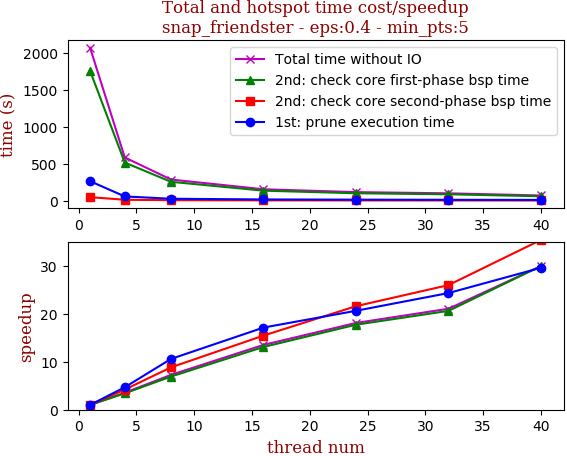
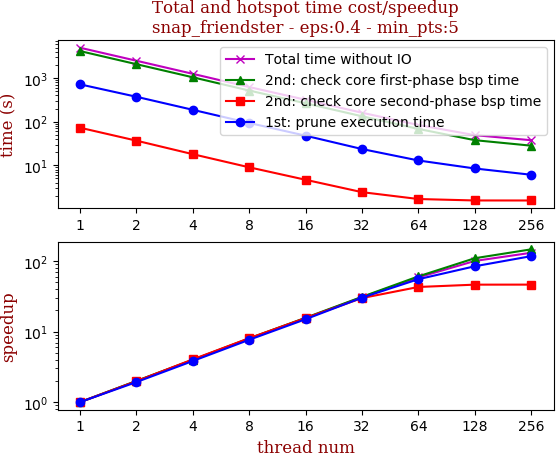
update friendster exp

diff --git a/python_experiments/scalability_differ_eps_knl.py b/python_experiments/scalability_differ_eps_knl.py
@@ -37,8 +37,8 @@ if __name__ == '__main__':
     os.system('mkdir -p ./figures/' + figure_folder)
     os.system('mkdir -p ' + markdown_folder)
     min_pts = 5
-    # eps_lst = [float(i + 1) / 10 for i in xrange(9)]
-    eps_lst = [0.1]
+    eps_lst = [float(i + 1) / 10 for i in xrange(9)]
+    # eps_lst = [0.1, 0.2, 0.3]
 
     for data_set in data_set_lst:
         with open(markdown_folder + os.sep + data_set + '.md', 'w') as ifs:

diff --git a/python_experiments/case_studies/figures-case-study14-scalability-knl/snap_friendster.md b/python_experiments/case_studies/figures-case-study14-scalability-knl/snap_friendster.md
@@ -16,3 +16,147 @@ thread_num | prune | check-core 1st bsp | check-core 2nd bsp | cluster-core | cl
 128 | 8.827s | 42.469s | 11.494s | 8.847s | 10.82s | 82.469s | 91.040
 256 | 6.755s | 32.983s | 9.231s | 6.685s | 13.341s | 69.006s | 108.801
 
+## eps:0.2
+
+overview | speedup
+--- | ---
+![snap_friendster-overview](../../figures/scalability_simd_paper/snap_friendster-eps:0.2-min_pts:5-overview.png) | ![snap_friendster-runtime-speedup](../../figures/scalability_simd_paper/snap_friendster-eps:0.2-min_pts:5-runtime-speedup.png)
+
+thread_num | prune | check-core 1st bsp | check-core 2nd bsp | cluster-core | cluster-non-core | total | total speedup
+--- | --- | --- | --- | --- | --- | --- | ---
+1 | 759.385s | 6308.925s | 414.088s | 123.25s | 203.527s | 7809.179s | 1.000
+2 | 397.049s | 3154.587s | 206.981s | 64.43s | 107.247s | 3930.3s | 1.987
+4 | 199.469s | 1580.95s | 103.738s | 33.024s | 55.101s | 1972.287s | 3.959
+8 | 99.847s | 789.311s | 51.661s | 16.952s | 29.473s | 987.249s | 7.910
+16 | 50.115s | 396.879s | 25.821s | 8.739s | 18.407s | 499.966s | 15.619
+32 | 25.705s | 203.231s | 13.541s | 5.077s | 11.467s | 259.026s | 30.148
+64 | 13.631s | 102.372s | 7.04s | 3.669s | 6.915s | 133.633s | 58.438
+128 | 8.878s | 56.663s | 4.247s | 2.677s | 4.901s | 77.371s | 100.932
+256 | 6.696s | 43.754s | 3.163s | 2.837s | 4.304s | 60.758s | 128.529
+
+## eps:0.3
+
+overview | speedup
+--- | ---
+![snap_friendster-overview](../../figures/scalability_simd_paper/snap_friendster-eps:0.3-min_pts:5-overview.png) | ![snap_friendster-runtime-speedup](../../figures/scalability_simd_paper/snap_friendster-eps:0.3-min_pts:5-runtime-speedup.png)
+
+thread_num | prune | check-core 1st bsp | check-core 2nd bsp | cluster-core | cluster-non-core | total | total speedup
+--- | --- | --- | --- | --- | --- | --- | ---
+1 | 744.535s | 5429.591s | 101.873s | 17.765s | 53.064s | 6346.832s | 1.000
+2 | 386.753s | 2715.207s | 50.976s | 9.486s | 27.516s | 3189.943s | 1.990
+4 | 194.127s | 1360.522s | 25.392s | 5.16s | 14.144s | 1599.349s | 3.968
+8 | 98.764s | 681.863s | 12.62s | 3.091s | 7.938s | 804.28s | 7.891
+16 | 48.811s | 339.348s | 6.436s | 1.818s | 5.051s | 401.468s | 15.809
+32 | 24.258s | 174.648s | 3.494s | 1.477s | 3.05s | 206.931s | 30.671
+64 | 13.293s | 88.096s | 2.109s | 1.106s | 1.921s | 106.527s | 59.580
+128 | 8.679s | 48.882s | 1.666s | 1.356s | 1.542s | 62.128s | 102.157
+256 | 6.185s | 37.33s | 1.593s | 1.532s | 1.6s | 48.243s | 131.560
+
+## eps:0.4
+
+overview | speedup
+--- | ---
+![snap_friendster-overview](../../figures/scalability_simd_paper/snap_friendster-eps:0.4-min_pts:5-overview.png) | ![snap_friendster-runtime-speedup](../../figures/scalability_simd_paper/snap_friendster-eps:0.4-min_pts:5-runtime-speedup.png)
+
+thread_num | prune | check-core 1st bsp | check-core 2nd bsp | cluster-core | cluster-non-core | total | total speedup
+--- | --- | --- | --- | --- | --- | --- | ---
+1 | 716.118s | 4148.362s | 72.63s | 2.878s | 7.638s | 4947.628s | 1.000
+2 | 371.966s | 2076.83s | 36.698s | 1.787s | 3.999s | 2491.284s | 1.986
+4 | 186.898s | 1040.229s | 17.987s | 1.204s | 2.137s | 1248.457s | 3.963
+8 | 93.428s | 517.115s | 8.999s | 0.934s | 1.275s | 621.753s | 7.958
+16 | 47.749s | 263.916s | 4.662s | 0.833s | 0.917s | 318.08s | 15.555
+32 | 23.623s | 133.169s | 2.427s | 0.775s | 0.612s | 160.608s | 30.806
+64 | 12.92s | 68.268s | 1.689s | 0.789s | 0.444s | 84.114s | 58.821
+128 | 8.47s | 37.716s | 1.565s | 0.813s | 0.598s | 49.165s | 100.633
+256 | 6.082s | 28.208s | 1.563s | 0.907s | 0.879s | 37.643s | 131.436
+
+## eps:0.5
+
+overview | speedup
+--- | ---
+![snap_friendster-overview](../../figures/scalability_simd_paper/snap_friendster-eps:0.5-min_pts:5-overview.png) | ![snap_friendster-runtime-speedup](../../figures/scalability_simd_paper/snap_friendster-eps:0.5-min_pts:5-runtime-speedup.png)
+
+thread_num | prune | check-core 1st bsp | check-core 2nd bsp | cluster-core | cluster-non-core | total | total speedup
+--- | --- | --- | --- | --- | --- | --- | ---
+1 | 677.199s | 3003.765s | 64.607s | 1.091s | 2.003s | 3748.668s | 1.000
+2 | 348.532s | 1497.121s | 32.029s | 0.851s | 1.035s | 1879.571s | 1.994
+4 | 175.977s | 751.257s | 15.99s | 0.75s | 0.581s | 944.559s | 3.969
+8 | 88.142s | 373.888s | 8.0s | 0.69s | 0.361s | 471.083s | 7.958
+16 | 44.118s | 188.181s | 4.148s | 0.664s | 0.241s | 237.356s | 15.793
+32 | 22.17s | 95.454s | 2.319s | 0.663s | 0.194s | 120.803s | 31.031
+64 | 12.082s | 48.857s | 1.645s | 0.663s | 0.21s | 63.461s | 59.070
+128 | 8.221s | 27.09s | 1.367s | 0.692s | 0.288s | 37.662s | 99.534
+256 | 5.644s | 20.006s | 1.434s | 0.718s | 0.398s | 28.202s | 132.922
+
+## eps:0.6
+
+overview | speedup
+--- | ---
+![snap_friendster-overview](../../figures/scalability_simd_paper/snap_friendster-eps:0.6-min_pts:5-overview.png) | ![snap_friendster-runtime-speedup](../../figures/scalability_simd_paper/snap_friendster-eps:0.6-min_pts:5-runtime-speedup.png)
+
+thread_num | prune | check-core 1st bsp | check-core 2nd bsp | cluster-core | cluster-non-core | total | total speedup
+--- | --- | --- | --- | --- | --- | --- | ---
+1 | 616.208s | 2034.604s | 55.846s | 0.752s | 1.175s | 2708.588s | 1.000
+2 | 311.557s | 1023.508s | 28.066s | 0.677s | 0.597s | 1364.408s | 1.985
+4 | 160.53s | 512.556s | 14.086s | 0.654s | 0.329s | 688.157s | 3.936
+8 | 80.471s | 252.734s | 6.992s | 0.63s | 0.219s | 341.05s | 7.942
+16 | 40.01s | 127.062s | 3.722s | 0.63s | 0.147s | 171.574s | 15.787
+32 | 21.755s | 66.179s | 2.169s | 0.632s | 0.112s | 90.85s | 29.814
+64 | 11.306s | 33.466s | 1.465s | 0.633s | 0.142s | 47.014s | 57.612
+128 | 7.434s | 18.411s | 1.149s | 0.656s | 0.198s | 27.851s | 97.253
+256 | 5.522s | 12.867s | 1.356s | 0.69s | 0.255s | 20.693s | 130.894
+
+## eps:0.7
+
+overview | speedup
+--- | ---
+![snap_friendster-overview](../../figures/scalability_simd_paper/snap_friendster-eps:0.7-min_pts:5-overview.png) | ![snap_friendster-runtime-speedup](../../figures/scalability_simd_paper/snap_friendster-eps:0.7-min_pts:5-runtime-speedup.png)
+
+thread_num | prune | check-core 1st bsp | check-core 2nd bsp | cluster-core | cluster-non-core | total | total speedup
+--- | --- | --- | --- | --- | --- | --- | ---
+1 | 545.494s | 1261.849s | 46.577s | 0.662s | 0.981s | 1855.567s | 1.000
+2 | 282.671s | 632.786s | 23.242s | 0.631s | 0.494s | 939.827s | 1.974
+4 | 142.415s | 316.901s | 11.597s | 0.62s | 0.269s | 471.806s | 3.933
+8 | 71.372s | 157.281s | 5.79s | 0.615s | 0.192s | 235.254s | 7.888
+16 | 36.048s | 78.77s | 3.047s | 0.612s | 0.124s | 118.604s | 15.645
+32 | 17.85s | 40.39s | 1.858s | 0.62s | 0.101s | 60.822s | 30.508
+64 | 10.083s | 20.711s | 1.276s | 0.629s | 0.13s | 32.833s | 56.515
+128 | 7.017s | 11.773s | 1.076s | 0.642s | 0.191s | 20.702s | 89.632
+256 | 5.152s | 8.325s | 1.241s | 0.676s | 0.252s | 15.649s | 118.574
+
+## eps:0.8
+
+overview | speedup
+--- | ---
+![snap_friendster-overview](../../figures/scalability_simd_paper/snap_friendster-eps:0.8-min_pts:5-overview.png) | ![snap_friendster-runtime-speedup](../../figures/scalability_simd_paper/snap_friendster-eps:0.8-min_pts:5-runtime-speedup.png)
+
+thread_num | prune | check-core 1st bsp | check-core 2nd bsp | cluster-core | cluster-non-core | total | total speedup
+--- | --- | --- | --- | --- | --- | --- | ---
+1 | 475.792s | 687.779s | 36.669s | 0.63s | 0.928s | 1201.801s | 1.000
+2 | 246.993s | 343.995s | 18.288s | 0.611s | 0.465s | 610.355s | 1.969
+4 | 124.112s | 172.497s | 9.213s | 0.608s | 0.238s | 306.671s | 3.919
+8 | 62.812s | 85.984s | 4.679s | 0.611s | 0.144s | 154.232s | 7.792
+16 | 31.7s | 42.92s | 2.376s | 0.609s | 0.116s | 77.724s | 15.462
+32 | 15.589s | 21.893s | 1.478s | 0.611s | 0.089s | 39.664s | 30.300
+64 | 8.688s | 11.383s | 1.02s | 0.622s | 0.1s | 21.816s | 55.088
+128 | 6.458s | 6.531s | 1.156s | 0.635s | 0.196s | 14.98s | 80.227
+256 | 5.088s | 4.442s | 1.292s | 0.666s | 0.252s | 11.743s | 102.342
+
+## eps:0.9
+
+overview | speedup
+--- | ---
+![snap_friendster-overview](../../figures/scalability_simd_paper/snap_friendster-eps:0.9-min_pts:5-overview.png) | ![snap_friendster-runtime-speedup](../../figures/scalability_simd_paper/snap_friendster-eps:0.9-min_pts:5-runtime-speedup.png)
+
+thread_num | prune | check-core 1st bsp | check-core 2nd bsp | cluster-core | cluster-non-core | total | total speedup
+--- | --- | --- | --- | --- | --- | --- | ---
+1 | 414.199s | 283.01s | 24.293s | 0.611s | 0.902s | 723.018s | 1.000
+2 | 215.501s | 141.761s | 12.154s | 0.604s | 0.453s | 370.476s | 1.952
+4 | 108.847s | 70.633s | 6.073s | 0.604s | 0.231s | 186.392s | 3.879
+8 | 55.256s | 35.246s | 3.154s | 0.606s | 0.165s | 94.43s | 7.657
+16 | 27.832s | 17.789s | 1.738s | 0.613s | 0.104s | 48.08s | 15.038
+32 | 13.725s | 9.043s | 1.166s | 0.61s | 0.104s | 24.651s | 29.330
+64 | 7.826s | 4.869s | 0.941s | 0.616s | 0.11s | 14.365s | 50.332
+128 | 5.744s | 2.928s | 1.106s | 0.63s | 0.157s | 10.568s | 68.416
+256 | 4.44s | 4.999s | 1.114s | 0.666s | 0.285s | 11.508s | 62.827
+
